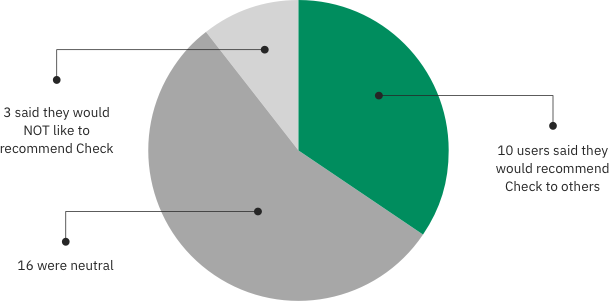
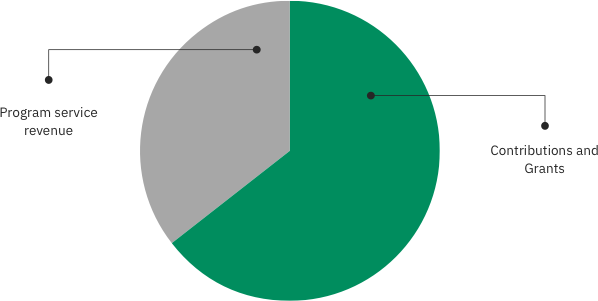
Updating financial data.

diff --git a/_includes/render_sections.html b/_includes/render_sections.html
@@ -7,7 +7,7 @@
 		<h2><span>1.</span> CEO’s Note</h2>
 		{%
 			include module_graphic.html
-			url="/images/graphic_introduction.png"
+			url="//images.ctfassets.net/g118h5yoccvd/6Zwa8hoN1eeqoWaqyQscqk/fbcbb3cfe808c8d9c86696f7bf19f77e/graphic_introduction.png"
 			title="introduction"
 		%}
 	</div>
@@ -183,7 +183,7 @@
 		<h2><span>2.</span> In Numbers</h2>
 		{%
 			include module_graphic.html
-			url="/images/graphic_in-numbers.png"
+			url="//images.ctfassets.net/g118h5yoccvd/TikhWKrVq60OCqqcSga4w/82c7e21d5433cab064e35534f51b6d29/graphic_in-numbers.png"
 			title="in numbers"
 		%}
 	</div>
@@ -204,7 +204,7 @@
 				<div class="stats">
 					{%
 						include module_graphic.html
-						url="/images/graph_stats.png"
+						url="//images.ctfassets.net/g118h5yoccvd/74zB3elofCcOCe2mkuMOCg/bc91f6d10d321e125a4cfa40b5ddb24c/graph_stats.png"
 						title="Check ease of use graph"
 					%}
 					<div class="note">73% of our users think it’s easy to use Check and 27% think Check is difficult to use.</div>					
@@ -314,7 +314,7 @@
 		<h2><span>3.</span> What are people saying?</h2>
 		{%
 			include module_graphic.html
-			url="/images/graphic_reviews.png"
+			url="//images.ctfassets.net/g118h5yoccvd/3PsNMd4GDKOI4Kg6A242yo/d9210c94649cd353c1b8fcc602640783/graphic_reviews.png"
 			title="in numbers"
 		%}
 	</div>
@@ -389,7 +389,7 @@
 		<h2><span>4.</span> Financials</h2>
 		{%
 			include module_graphic.html
-			url="/images/graphic_financials.png"
+			url="//images.ctfassets.net/g118h5yoccvd/5w2rRNDeuIUwYmgaIWkYyu/9c42ace7a60ac37df5bc169955991783/graphic_financials.png"
 			title="Financials"
 		%}
 	</div>
@@ -411,28 +411,24 @@
 				<div class="stats">
 					{%
 						include module_graphic.html
-						url="/images/graph_revenue.png"
+						url="//images.ctfassets.net/g118h5yoccvd/33jP4skkx2yAmKkO8QcAYy/bbe4d186ea445c9de47e012f2d010d21/graph_revenue.png"
 						title="in numbers"
 					%}					
 					{%
 	              include stat.html
 	              label="Contributions and Grants"
-	              number="499K"
+	              number="793K"
 	        %}
 	        {%
 	              include stat.html
 	              label="Program service revenue"
-	              number="322K"
+	              number="435K"
 	        %}
-	        {%
-	              include stat.html
-	              label="Other revenue"
-	              number="3.7K"
-	        %}
+
 	        {%
 	              include stat.html
 	              label="Total revenue"
-	              number="825K"
+	              number="1.2M"
 	        %}
       	</div>
 			</div>
@@ -450,7 +446,7 @@
 					{%
 	              include stat.html
 	              label="Total expenditures"
-	              number="1.1M"
+	              number="1.4M"
 	        %}
       	</div>
 			</div>

diff --git a/_layouts/landing.html b/_layouts/landing.html
@@ -29,7 +29,7 @@
                 <div class="column-b">
                     {%
                     include module_graphic.html
-                    url="/images/graphic_verticals.png"
+                    url="//images.ctfassets.net/g118h5yoccvd/6WyFUg4Ms8G2cEcQescK8Y/0d27f795fc6ce7c47ded094e75ed3b4c/graphic_verticals.png"
                     title="in numbers"
                     %}
                 </div>
